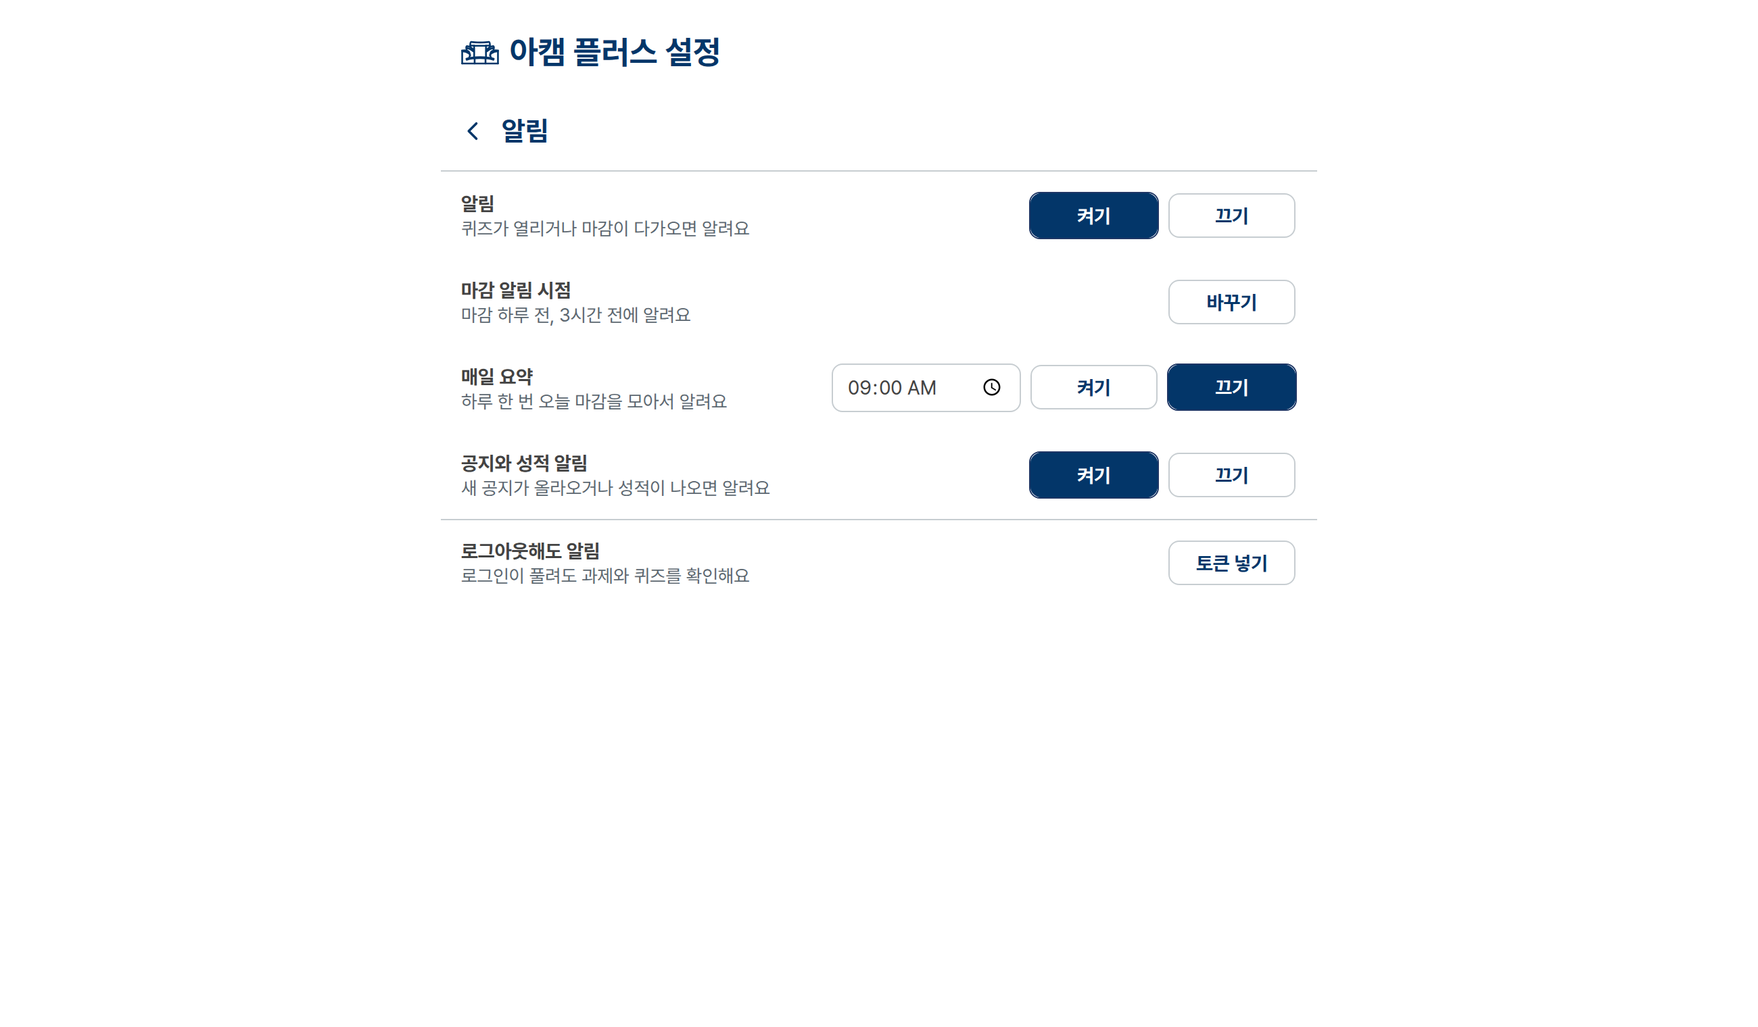
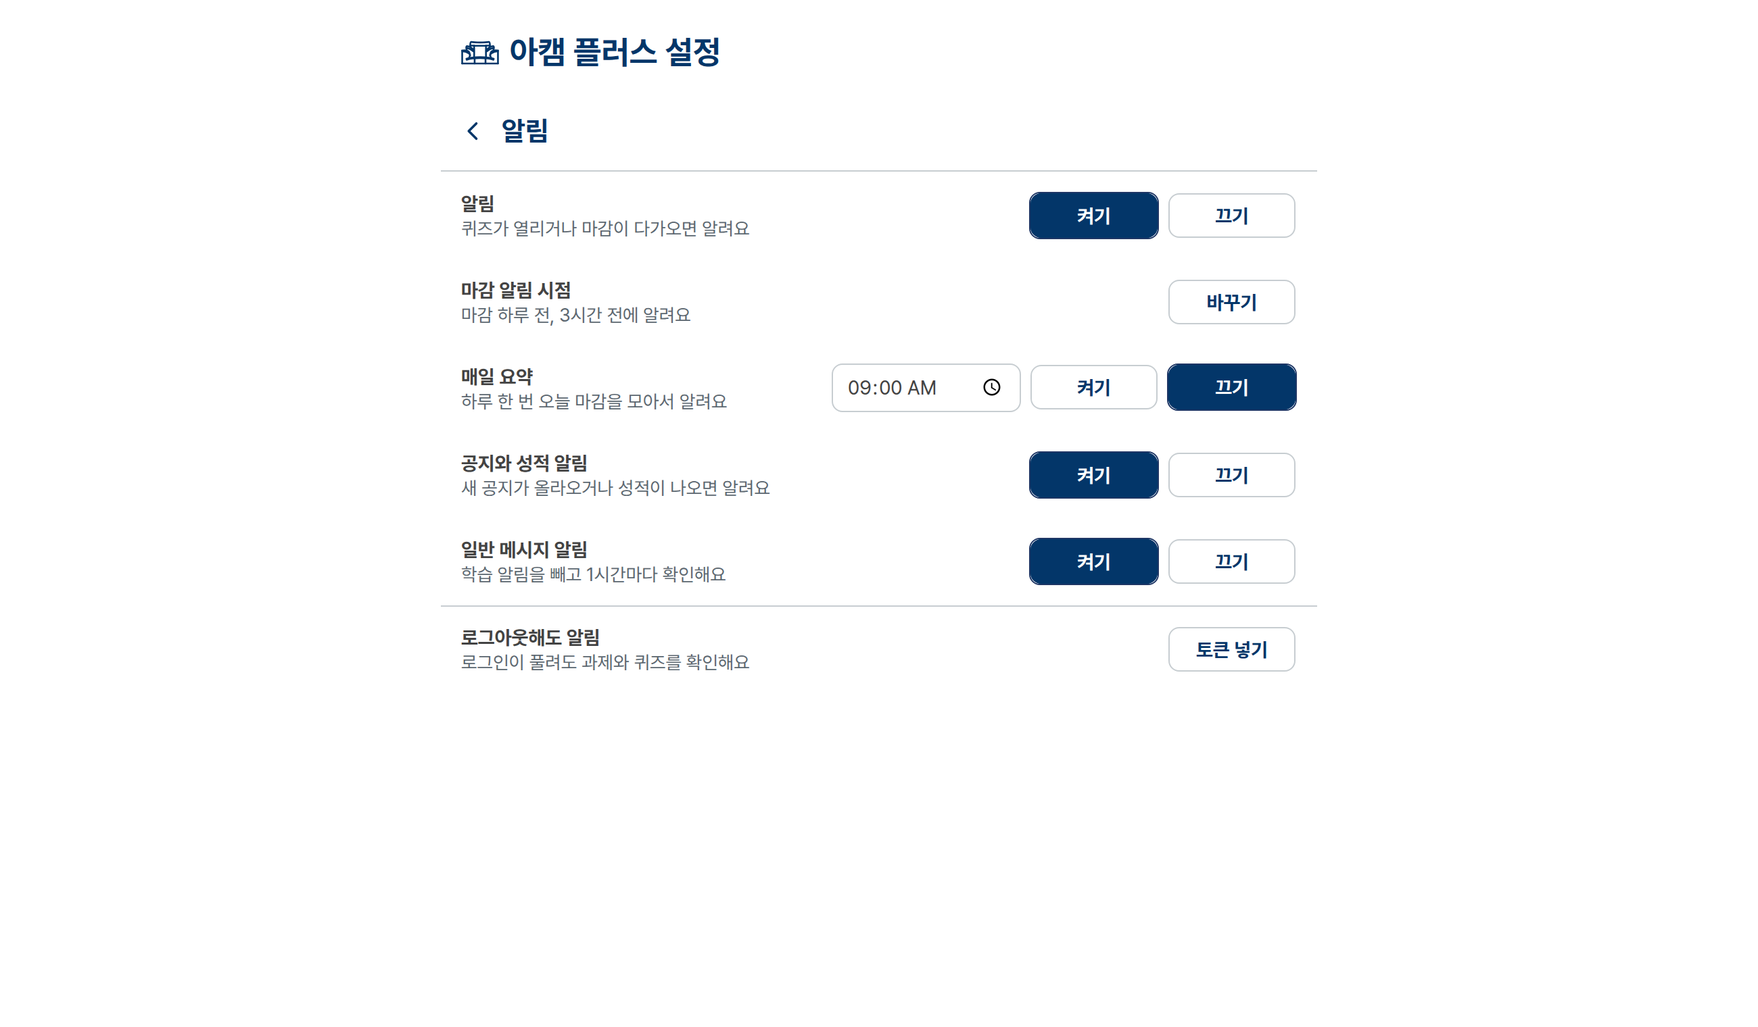
feat: 일반 메시지 도착 알림과 설정 추가
기존 1시간 점검에서 학습 알림을 제외한 새 메시지를 알리고, README와 알림 설정 화면을 갱신했다.

Changed region(s): [[0.2492, 0.5257, 0.4362, 0.6493], [0.5608, 0.4947, 0.7165, 0.5875], [0.6854, 0.6184, 0.7165, 0.6493]]

diff --git a/notify.js b/notify.js
@@ -12,6 +12,8 @@ const LEARNINGX_LAUNCH_KEY = 'learningxLaunchAt';
 const LEARNINGX_TOOL_KEY = 'learningxToolId';
 const ACTIVITY_KEY = 'icampusActivity';
 const ACTIVITY_SETTING = 'activityNotifyEnabled';
+const MESSAGE_SETTING = 'messageNotifyEnabled';
+const MESSAGE_STATE_KEY = 'icampusMessageAlerts';
 const LEAD_SETTING = 'alertLeadMinutes';
 const DAILY_TIME_SETTING = 'dailySummaryTime';
 const DAILY_SENT_KEY = 'icampusDailySent';
@@ -26,6 +28,8 @@ const QUIZ_STALE_MS = 6 * HOUR_MS;
 const NOTIFIED_TTL_MS = 30 * 24 * HOUR_MS;
 const ACTIVITY_TTL_MS = 60 * 24 * HOUR_MS;
 const ACTIVITY_RECENT_MS = 7 * 24 * HOUR_MS;
+const MESSAGE_RECENT_MS = 7 * 24 * HOUR_MS;
+const MESSAGE_SEEN_MS = 30 * 24 * HOUR_MS;
 let notifyQueue = Promise.resolve();
 let scanLogQueue = Promise.resolve();
 function logScanOnce(description, error) {
@@ -204,6 +208,103 @@ async function updateActivity(result) {
       await showActivityNotification(group, kind);
     }
   }
+}
+
+// Canvas marks a conversation unread after a new message. Keep only its ID and
+// latest message time in storage; titles and message text live only in the API
+// response and the transient browser notification.
+async function unreadConversations(token) {
+  let url = new URL('https://canvas.skku.edu/api/v1/conversations?scope=unread&per_page=100');
+  const visited = new Set();
+  const items = [];
+  let checkedAt = null;
+  while (url && !visited.has(url.href) && visited.size < 10) {
+    visited.add(url.href);
+    const response = await fetch(url.href, {
+      credentials: token ? 'omit' : 'include', redirect: 'error',
+      headers: { Accept: 'application/json', ...(token ? { Authorization: 'Bearer ' + token } : {}) },
+      signal: AbortSignal.timeout(8000)
+    });
+    if (!response.ok) throw new Error('Canvas HTTP ' + response.status);
+    if (checkedAt === null) {
+      const date = Date.parse(response.headers.get('Date'));
+      if (Number.isFinite(date)) checkedAt = date;
+    }
+    const data = JSON.parse((await response.text()).replace(/^\s*while\s*\(\s*1\s*\)\s*;\s*/, ''));
+    if (!Array.isArray(data)) throw new Error('Canvas 대화 목록 형식 오류');
+    items.push(...data);
+    const next = response.headers.get('Link')?.split(',').find(part => /rel="?next"?/.test(part));
+    const target = next?.match(/<([^>]+)>/)?.[1];
+    url = target ? new URL(target, url) : null;
+    if (url && (url.origin !== 'https://canvas.skku.edu' || url.pathname !== '/api/v1/conversations'))
+      throw new Error('Canvas 대화 목록 다음 주소 오류');
+  }
+  if (url) throw new Error('Canvas 대화 목록 페이지 초과');
+  return { items, checkedAt };
+}
+
+function generalMessage(item) {
+  const id = String(item?.id ?? '');
+  const at = Date.parse(item?.last_message_at);
+  const audience = item?.audience;
+  if (!/^\d+$/.test(id) || !Number.isFinite(at) || item.workflow_state !== 'unread' ||
+      !Array.isArray(audience) || !audience.length ||
+      audience.every(value => ['159841', '165997'].includes(String(value))) ||
+      (Array.isArray(item.properties) && item.properties.includes('last_author'))) return null;
+  return { id, at, subject: String(item.subject || '제목 없는 메시지').slice(0, 120),
+    preview: String(item.last_message || '내용을 확인해 보세요').slice(0, 120) };
+}
+
+async function updateMessageAlerts(result, token) {
+  const enabled = await chrome.storage.local.get([NOTIFY_SETTING, MESSAGE_SETTING]);
+  if (enabled[NOTIFY_SETTING] === false || enabled[MESSAGE_SETTING] === false || await examIsActive()) return;
+  const userId = String(result?.userId ?? '');
+  if (!/^\d+$/.test(userId)) return;
+  let resultPage;
+  try { resultPage = await unreadConversations(token); }
+  catch (error) { await logScanOnce('일반 메시지 조회 실패', error); return; }
+  if (await examIsActive()) return;
+  const now = Date.now();
+  const checkedAt = resultPage.checkedAt;
+  const saved = (await chrome.storage.local.get(MESSAGE_STATE_KEY))[MESSAGE_STATE_KEY];
+  const sameUser = saved?.userId === userId;
+  const lastCheckedAt = sameUser && Number.isFinite(saved.checkedAt) ? saved.checkedAt : null;
+  const seen = sameUser && saved.seen && typeof saved.seen === 'object' && !Array.isArray(saved.seen)
+    ? { ...saved.seen } : {};
+  for (const [key, time] of Object.entries(seen)) {
+    if (!Number.isFinite(time) || now - time > MESSAGE_SEEN_MS) delete seen[key];
+  }
+  const fresh = [];
+  for (const item of resultPage.items) {
+    const message = generalMessage(item);
+    if (!message) continue;
+    const sig = message.id + '|' + message.at;
+    if (Object.hasOwn(seen, sig)) continue;
+    // Server Date and message timestamps share a clock. Without that header,
+    // keep the next scan eligible rather than permanently discarding a future timestamp.
+    if (checkedAt !== null && message.at > checkedAt + MINUTE_MS) continue;
+    if (sameUser && (lastCheckedAt === null || message.at > lastCheckedAt - MINUTE_MS) &&
+        (checkedAt === null || checkedAt - message.at <= MESSAGE_RECENT_MS)) {
+      fresh.push({ message, sig });
+    } else seen[sig] = now;
+  }
+  for (const { message, sig } of fresh) {
+    if (await examIsActive()) return;
+    const id = 'icampus-message-' + message.id + '-' + message.at;
+    const links = (await chrome.storage.session.get(LINKS_KEY))[LINKS_KEY] || {};
+    links[id] = { url: 'https://canvas.skku.edu/conversations', lecture: false };
+    await chrome.storage.session.set({ [LINKS_KEY]: links });
+    await chrome.notifications.create(id, {
+      type: 'basic', iconUrl: 'icons/icon48.png',
+      title: '새 일반 메시지: ' + message.subject,
+      message: message.preview,
+      priority: 1
+    });
+    seen[sig] = now;
+    // Keep the old checkpoint until every pending notification succeeds.
+    await chrome.storage.local.set({ [MESSAGE_STATE_KEY]: { userId, checkedAt: lastCheckedAt, seen } });
+  }
+  await chrome.storage.local.set({ [MESSAGE_STATE_KEY]: { userId, checkedAt, seen } });
 }
 
 // LearningX needs the xn_api_token cookie. Read it from an open iCampus tab if
@@ -387,6 +488,9 @@ async function backgroundScan() {
     await Gcal.syncIfEnabled();
     if (expired) return;
     await updateActivity(result);
+    if (expired) return;
+    try { await updateMessageAlerts(result, canvasToken && !rejected ? canvasToken : null); }
+    catch (error) { await logScanOnce('일반 메시지 알림 실패', error); }
     if (expired) return;
     await recordScanSuccess({ usedToken: Boolean(canvasToken), rejected });
   };
@@ -693,8 +797,14 @@ chrome.runtime.onStartup.addListener(() => {
 });
 chrome.storage.onChanged.addListener((changes, area) => {
   if (area === 'local' && changes.gcalEnabled) queueNotify(ensureScanAlarm);
+  if (area === 'local' && changes[MESSAGE_SETTING]) {
+    queueNotify(() => chrome.storage.local.remove(MESSAGE_STATE_KEY));
+  }
   if (area === 'local' && changes[NOTIFY_SETTING]) {
-    queueNotify(async () => { await ensureScanAlarm(); await ensureDailyAlarm(); await checkNotifications(); });
+    queueNotify(async () => {
+      await chrome.storage.local.remove(MESSAGE_STATE_KEY);
+      await ensureScanAlarm(); await ensureDailyAlarm(); await checkNotifications();
+    });
   }
   if (area === 'local' && changes[DAILY_TIME_SETTING]) {
     queueNotify(ensureDailyAlarm);

diff --git a/options.js b/options.js
@@ -283,6 +283,8 @@ document.addEventListener('DOMContentLoaded', async () => {
   // hides while alerts are off, like the exam rows under exam mode.
   const activityRow = document.querySelector('#activity-notify-row');
   const activityOptions = [...document.querySelectorAll('#activity-notify [data-activity-notify]')];
+  const messageRow = document.querySelector('#message-notify-row');
+  const messageOptions = [...document.querySelectorAll('#message-notify [data-message-notify]')];
   const leadRow = document.querySelector('#lead-row');
   const leadOpen = document.querySelector('#lead-open');
   const leadEditor = document.querySelector('#lead-editor');
@@ -300,7 +302,7 @@ document.addEventListener('DOMContentLoaded', async () => {
   const showNotify = enabled => {
     notifyOptions.forEach(option =>
       option.setAttribute('aria-checked', String((option.dataset.notify === 'true') === enabled)));
-    for (const row of [leadRow, summaryRow, activityRow]) row.hidden = !enabled;
+    for (const row of [leadRow, summaryRow, activityRow, messageRow]) row.hidden = !enabled;
     if (!enabled) setLeadEditor(false);
   };
   // Deadline alert moments: any of the six, saved on each tap (notify.js reads
@@ -360,9 +362,13 @@ document.addEventListener('DOMContentLoaded', async () => {
   });
   const showActivityNotify = enabled => activityOptions.forEach(option =>
     option.setAttribute('aria-checked', String((option.dataset.activityNotify === 'true') === enabled)));
+  const showMessageNotify = enabled => messageOptions.forEach(option =>
+    option.setAttribute('aria-checked', String((option.dataset.messageNotify === 'true') === enabled)));
   chrome.storage.local.get('notifyEnabled').then(saved => showNotify(saved.notifyEnabled !== false)).catch(logPopup('알림 설정 읽기 실패'));
   chrome.storage.local.get('activityNotifyEnabled').then(saved =>
     showActivityNotify(saved.activityNotifyEnabled !== false)).catch(logPopup('공지 알림 설정 읽기 실패'));
+  chrome.storage.local.get('messageNotifyEnabled').then(saved =>
+    showMessageNotify(saved.messageNotifyEnabled !== false)).catch(logPopup('메시지 알림 설정 읽기 실패'));
   for (const option of notifyOptions) {
     option.addEventListener('click', async () => {
       const enabled = option.dataset.notify === 'true';
@@ -376,6 +382,13 @@ document.addEventListener('DOMContentLoaded', async () => {
       const enabled = option.dataset.activityNotify === 'true';
       showActivityNotify(enabled);
       await chrome.storage.local.set({ activityNotifyEnabled: enabled });
+    });
+  }
+  for (const option of messageOptions) {
+    option.addEventListener('click', async () => {
+      const enabled = option.dataset.messageNotify === 'true';
+      showMessageNotify(enabled);
+      await chrome.storage.local.set({ messageNotifyEnabled: enabled });
     });
   }
   // Canvas personal token: the worker keeps it (secrets.js) and only ever sends

diff --git a/options.html b/options.html
@@ -683,6 +683,18 @@
               </button>
             </div>
           </div>
+          <div id="message-notify-row" class="setting-row">
+            <div class="setting-text">
+              <span id="message-notify-label" class="setting-label">일반 메시지 알림</span>
+              <span class="setting-help">학습 알림을 빼고 1시간마다 확인해요</span>
+            </div>
+            <div id="message-notify" class="mode-choice" role="radiogroup" aria-labelledby="message-notify-label">
+              <button type="button" class="playlist-action" role="radio" aria-checked="true"
+                data-message-notify="true">켜기</button>
+              <button type="button" class="playlist-action" role="radio" aria-checked="false"
+                data-message-notify="false">끄기</button>
+            </div>
+          </div>
         </div>
         <div class="setting-group token-group">
           <div class="setting-row">

diff --git a/README.md b/README.md
@@ -9,7 +9,7 @@
 영문 이름: iCampus Plus (icampus-plus)
 
 [![Chrome 웹 스토어](https://img.shields.io/badge/Chrome%20%EC%9B%B9%20%EC%8A%A4%ED%86%A0%EC%96%B4-%EC%84%A4%EC%B9%98-124532?logo=googlechrome&logoColor=white)](https://chromewebstore.google.com/detail/%EC%95%84%EC%BA%A0-%ED%94%8C%EB%9F%AC%EC%8A%A4/dfbmennlapdcfamcdocebolgclgibmmn)
-![version](https://img.shields.io/badge/version-1.8.78-124532)
+![version](https://img.shields.io/badge/version-1.8.81-124532)
 ![manifest](https://img.shields.io/badge/Manifest-V3-124532)
 ![browser](https://img.shields.io/badge/Chromium%20%EA%B8%B0%EB%B0%98-%ED%81%AC%EB%A1%AC%20%7C%20%EC%9B%A8%EC%9D%BC%20%7C%20%EB%A7%A5%C2%B7%EB%A6%AC%EB%88%85%EC%8A%A4-555555)
 
@@ -21,7 +21,7 @@
 
 - **할 일과 재생 목록:** 즐겨찾기 과목의 과제와 LearningX 강의를 마감 순으로 보여 줍니다. 강의를 골라 순서를 바꿀 수 있고, 재생 목록에서는 자동 재생과 다음 강의 이동을 시도합니다. 마감 기한이 없는 강의는 강의 표의 모두 보기를 누르면 흐린 글씨로 함께 보이고, 골라서 재생 목록에 넣을 수 있어요.
 - **과제 정리:** 안 내도 되는 과제는 행에서 숨기고, 메일처럼 아이캠퍼스 밖에서 내는 과제는 직접 추가할 수 있어요. 숨긴 과제는 알림과 캘린더에서도 빠지고, 직접 추가한 과제는 마감 알림을 받아요. 둘 다 이 브라우저에만 저장돼요.
-- **알림과 캘린더:** 퀴즈 열림, 마감, 새 공지와 성적 공개를 알려 줍니다. 원하는 경우 구글 캘린더에도 마감 일정을 맞춥니다.
+- **알림과 캘린더:** 퀴즈 열림, 마감, 새 공지와 성적 공개, 일반 메시지를 알려 줍니다. 일반 메시지는 학습 알림을 빼고 1시간마다 확인하며 제목과 내용 미리보기를 보여 줍니다. 원하는 경우 구글 캘린더에도 마감 일정을 맞춥니다.
 - **읽기 편한 화면:** Canvas와 LearningX의 다크 모드, 좁은 창의 영상·PDF 확대, 메시지함의 일반 메시지와 학습 알림 나눠 보기를 제공합니다. 교수님이나 조교님께 보내고 아직 답이 없는 메시지도 일반 메시지에 함께 보입니다.
 - **강의콘텐츠 주차:** 처음 열면 현재 남은 항목이 있는 주차를 먼저 펼치고, 없으면 가장 최근 공개된 주차를 보여 줍니다. 직접 고른 주차는 그대로 볼 수 있습니다.
 - **강의 영상:** 영상 앞의 인트로·프리로더를 건너뛰고, 학교 플레이어의 전체화면 버튼으로 좁은 창에서도 영상을 크게 볼 수 있습니다.
@@ -49,7 +49,7 @@
 <td width="50%" valign="top"><b>화면 모드</b><br>Canvas와 LearningX를 밝은 화면과 어두운 화면 중에서 고를 수 있어요.<br><br><img src="screenshots/dark-dashboard.png" width="400" alt="화면 모드"></td>
 </tr>
 <tr>
-<td width="50%" valign="top"><b>알림 설정</b><br>마감 알림 시점과 매일 요약을 고를 수 있어요.<br><br><img src="screenshots/alerts-calendar.png" width="420" alt="알림 설정"></td>
+<td width="50%" valign="top"><b>알림 설정</b><br>마감 알림 시점과 매일 요약을 고르고, 일반 메시지 알림도 따로 켜고 끌 수 있어요.<br><br><img src="screenshots/alerts-calendar.png" width="420" alt="알림 설정"></td>
 <td width="50%" valign="top"><b>시험 모드</b><br>시험 중 다른 확장과 알림을 잠시 멈추고, 전체화면(Windows) 같은 선택 기능을 설정해요. 시험 모드가 꺼져 있어도 퀴즈 응시 화면에서는 모든 기능이 멈춰요.<br><br><img src="screenshots/exam-settings.png" width="420" alt="시험 모드"></td>
 </tr>
 <tr>
@@ -106,7 +106,7 @@
 
 ## 선택 기능
 
-- **알림:** 기본으로 1시간마다 일정을 확인합니다. 마감 알림 시점과 매일 요약은 설정에서 고를 수 있습니다. 로그아웃 중에도 과제·퀴즈 알림을 받으려면 내 Canvas 액세스 토큰을 설정에 넣으세요. 토큰은 계정 전체 권한을 가지므로 짧은 만료일을 정하고, 필요 없어지면 설정과 아이캠퍼스에서 지우세요.
+- **알림:** 기본으로 1시간마다 일정과 안 읽은 일반 메시지를 확인합니다. 처음 확인할 때 있던 메시지는 알리지 않고, 이후 새로 받은 메시지만 알려 줍니다. 메시지 알림은 설정에서 따로 끌 수 있습니다. 마감 알림 시점과 매일 요약도 설정에서 고를 수 있습니다. 로그아웃 중에도 과제·퀴즈·일반 메시지 알림을 받으려면 내 Canvas 액세스 토큰을 설정에 넣으세요. 토큰은 계정 전체 권한을 가지므로 짧은 만료일을 정하고, 필요 없어지면 설정과 아이캠퍼스에서 지우세요.
 - **구글 캘린더:** 내 구글 계정의 아캠 플러스 캘린더에 즐겨찾기 과목의 마감 일정을 맞춥니다. 아래 연결 방법을 참고하세요.
 - **영상 저장:** 설정에서 켜면 강의 플레이어의 다운로드 버튼이 나타납니다. 개인 학습용으로만 사용하고 다른 사람에게 나누거나 올리지 마세요.
 - **시험 모드:** 기본은 꺼짐이며, 꺼져 있어도 퀴즈 응시 화면에서는 아캠 플러스 기능이 멈춥니다. 설정에서 켜면 시험 화면에서 다른 확장·사이트 알림도 잠시 멈춥니다. 감독용 확장은 설정의 **시험 모드 > 시험 중에도 켤 확장**에서 고를 수 있습니다. 모든 확장을 꺼야 하는 시험이라면 아캠 플러스도 확장 관리 화면에서 직접 끄세요.

diff --git a/PRIVACY.md b/PRIVACY.md
@@ -1,6 +1,6 @@
 # 아캠 플러스 개인정보처리방침
 
-시행일: 2026년 10월 26일
+시행일: 2026년 11월 16일
 
 아캠 플러스(이하 "확장")는 성균관대학교 아이캠퍼스(canvas.skku.edu)를 더 편하게 쓰도록 돕는 브라우저 확장 프로그램입니다. 성균관대학교의 공식 프로그램이 아니며, 학교와 관계없이 개인이 만들었습니다.
 
@@ -18,6 +18,8 @@
 토큰을 넣은 뒤 "강의 일정도 확인"을 켜면(쿠키 선택 권한) canvas.skku.edu의 강의콘텐츠 인증 쿠키를 읽어 강의 일정을 조회합니다. 로그아웃 중이거나 인증이 만료됐을 때는 토큰으로 강의콘텐츠 도구를 한 번 열어 새 인증을 받습니다(1시간에 한 번까지). 강의 영상 페이지는 열지 않습니다. 인증 값은 그 조회에만 쓰고 확장이 따로 저장하거나 canvas.skku.edu 밖으로 보내지 않습니다.
 
 아이캠퍼스 메시지함을 열면 메시지를 일반 메시지와 학습 알림으로 나누려고 메시지함 목록에서 대화 번호, 상대 계정 번호, 읽음 여부만 그 페이지 안에서 확인합니다. 메시지 내용은 보관하지 않습니다. 같은 탭에서 메시지함을 다시 열 때 바로 나눠 보이도록 대화 번호, 학습 알림인지 여부, 읽음 여부만 그 탭의 세션 저장소(sessionStorage)에 5분 동안 두고, 탭을 닫으면 사라집니다. 모두 읽음으로 표시를 누를 때만 그 메시지들의 읽음 상태를 canvas.skku.edu에 바꿔 달라고 요청합니다. 메시지를 지우거나 보내지 않습니다. 내가 보내고 아직 답이 없는 대화도 받은 편지함 목록에 함께 보이도록, 메시지함을 열 때 보낸 메시지 목록을 canvas.skku.edu에서 한 번 받아 그 페이지의 Canvas 목록에 넣습니다. 이 목록은 따로 저장하지 않습니다.
+
+일반 메시지 알림이 켜져 있으면 서비스 워커가 1시간마다 안 읽은 Canvas 대화 목록을 확인합니다. 학습 알림 계정만 참여한 대화와 내가 마지막으로 보낸 대화는 알리지 않습니다. 중복 알림을 막으려고 Canvas 계정 번호, 대화 번호, 마지막 메시지 시각과 확인 시각만 브라우저의 확장 저장소에 남깁니다. 제목과 내용 미리보기는 알림을 만들 때만 사용하고 확장이 따로 저장하지 않습니다. 알림을 누르면 메시지함을 엽니다. 사용자가 Canvas 액세스 토큰을 넣은 경우에는 로그아웃 상태에서도 그 토큰으로 확인합니다.
 
 설정에서 구글 캘린더를 연결한 경우에만, 즐겨찾기 과목의 일정 제목, 과목 이름, 마감 시각, 아이캠퍼스 링크를 사용자의 구글 캘린더(아캠 플러스가 만든 캘린더 하나)에 씁니다. 구글 로그인에는 사용자가 직접 만든 OAuth 클라이언트를 쓰고, 받은 구글 접근 토큰은 브라우저를 끄면 사라지는 확장 전용 저장소(chrome.storage.session)에만 둡니다. 사용자가 클라이언트 보안 비밀번호를 넣은 경우 그 비밀번호와 구글 갱신 토큰은 확장 서비스 워커만 여는 저장소(IndexedDB)에 두고 구글 로그인 서버에만 보냅니다. 연결 해제를 누르면 토큰을 폐기하고 저장한 비밀번호와 갱신 토큰을 지웁니다. 이미 만든 아캠 플러스 캘린더를 찾으려고 캘린더 이름 목록은 읽지만, 다른 캘린더의 일정은 읽지 않습니다.
 시험 모드 중에는 아캠 플러스의 조회와 화면 변경 기능을 멈추고, 선택 권한을 허용했다면 다른 확장과 사이트 알림을 잠시 껐다가 시험 뒤 복구합니다.
@@ -60,7 +62,7 @@ Windows 보조 설정에서 사용자가 설치를 선택하면 보조 프로그
 | `kingoinfo.skku.edu` | 시간표 버튼이 연 정보광장 탭에서 주간테이블 조회 |
 | `activeTab`, `scripting`, `tabs` | 현재 아이캠퍼스 탭에서 조회 코드를 실행하고, 시험 화면과 재생목록 탭을 알아보려고 |
 | `storage` | 위 2절의 설정과 상태 저장 |
-| `notifications`, `alarms` | 퀴즈 열림과 마감 알림, 1시간마다 일정 확인 |
+| `notifications`, `alarms` | 퀴즈 열림과 마감 및 일반 메시지 알림, 1시간마다 일정과 안 읽은 일반 메시지 확인 |
 | `downloads`, `vod.skku.edu` (선택), `declarativeNetRequestWithHostAccess` | 사용자가 영상 저장을 켜고 플레이어의 저장 아이콘을 누를 때만, 그 강의 영상 파일을 사용자 컴퓨터의 다운로드 폴더에 저장. 영상이나 주소를 다른 곳으로 보내지 않습니다. |
 | `nativeMessaging` (선택) | 오류 기록 또는 전체화면 안내 숨기기를 켰을 때, 사용자가 설치한 로컬 보조 프로그램과 통신. 오류 기록 설정은 별도로 관리합니다. |
 | `management` (선택) | 시험 모드에서 다른 확장을 잠시 끄고 다시 켤 때만 씁니다. 사용자가 팝업에서 허용할 때만 생깁니다. |
